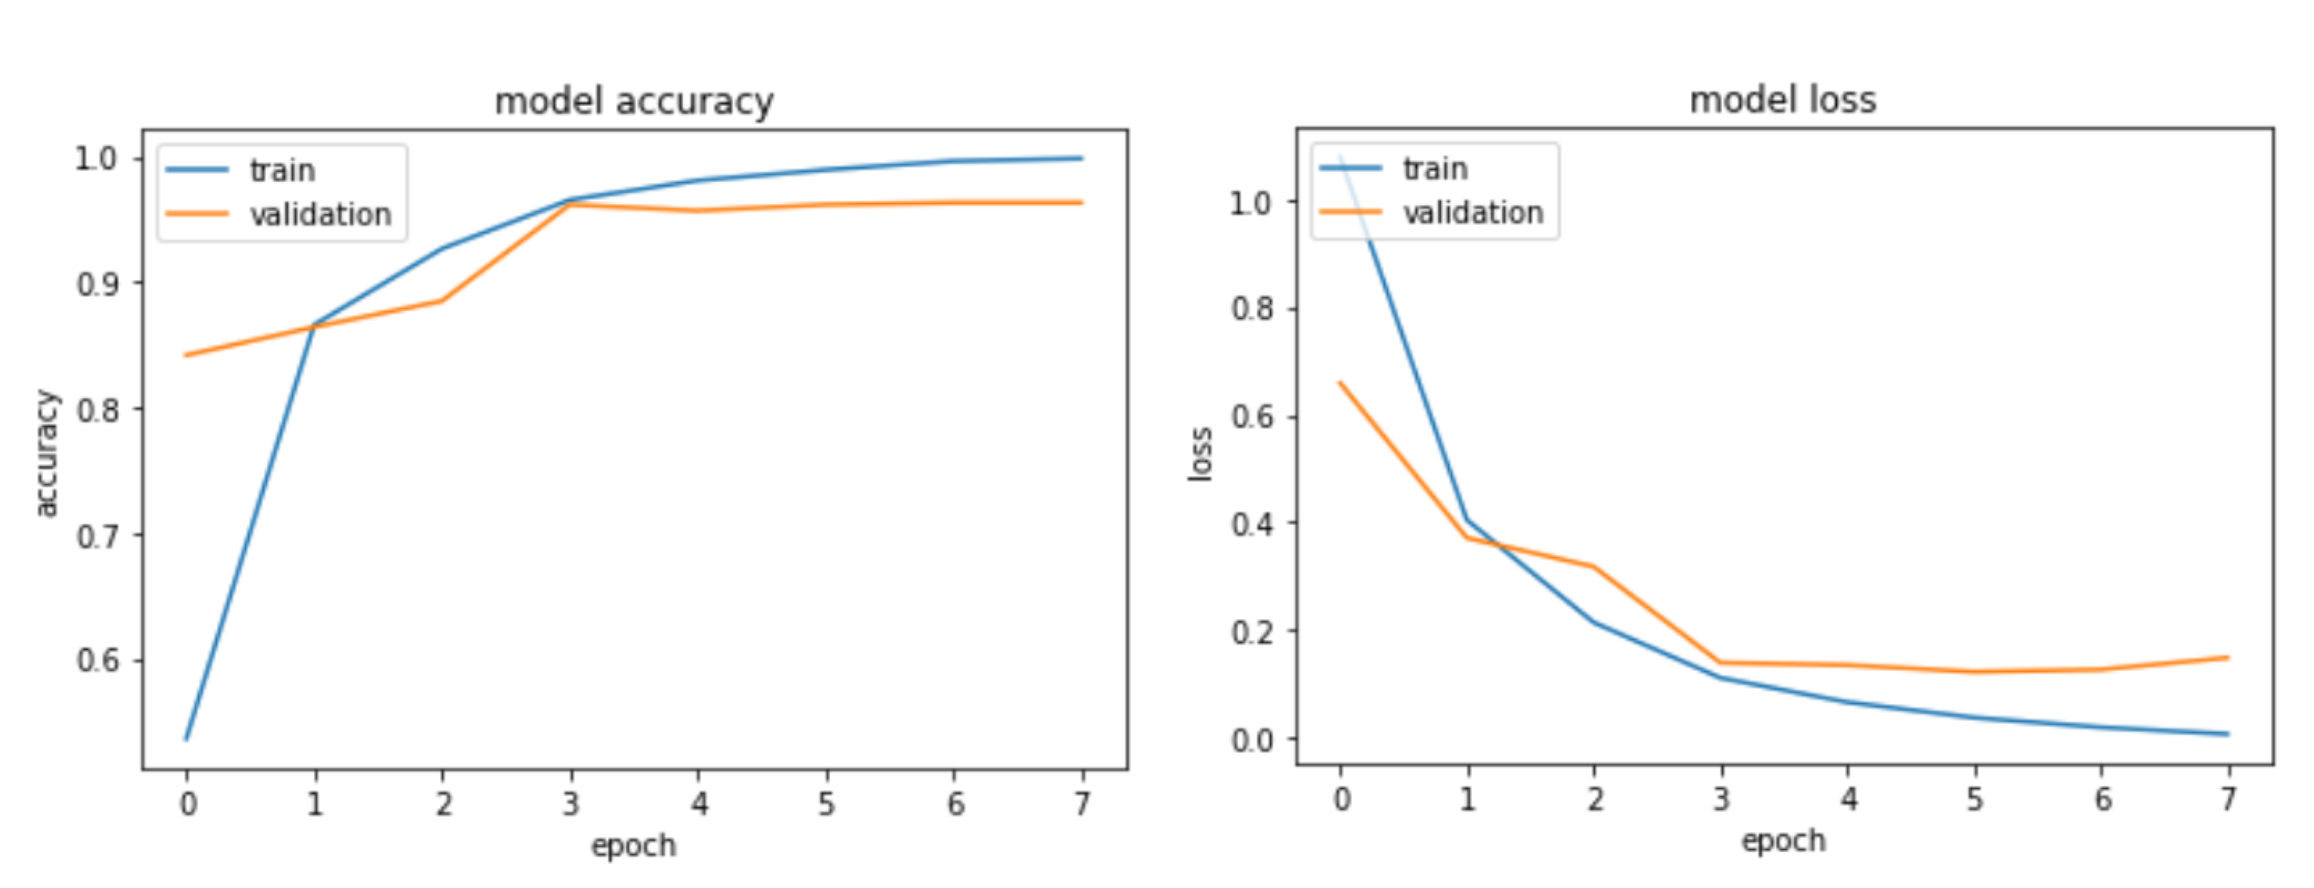
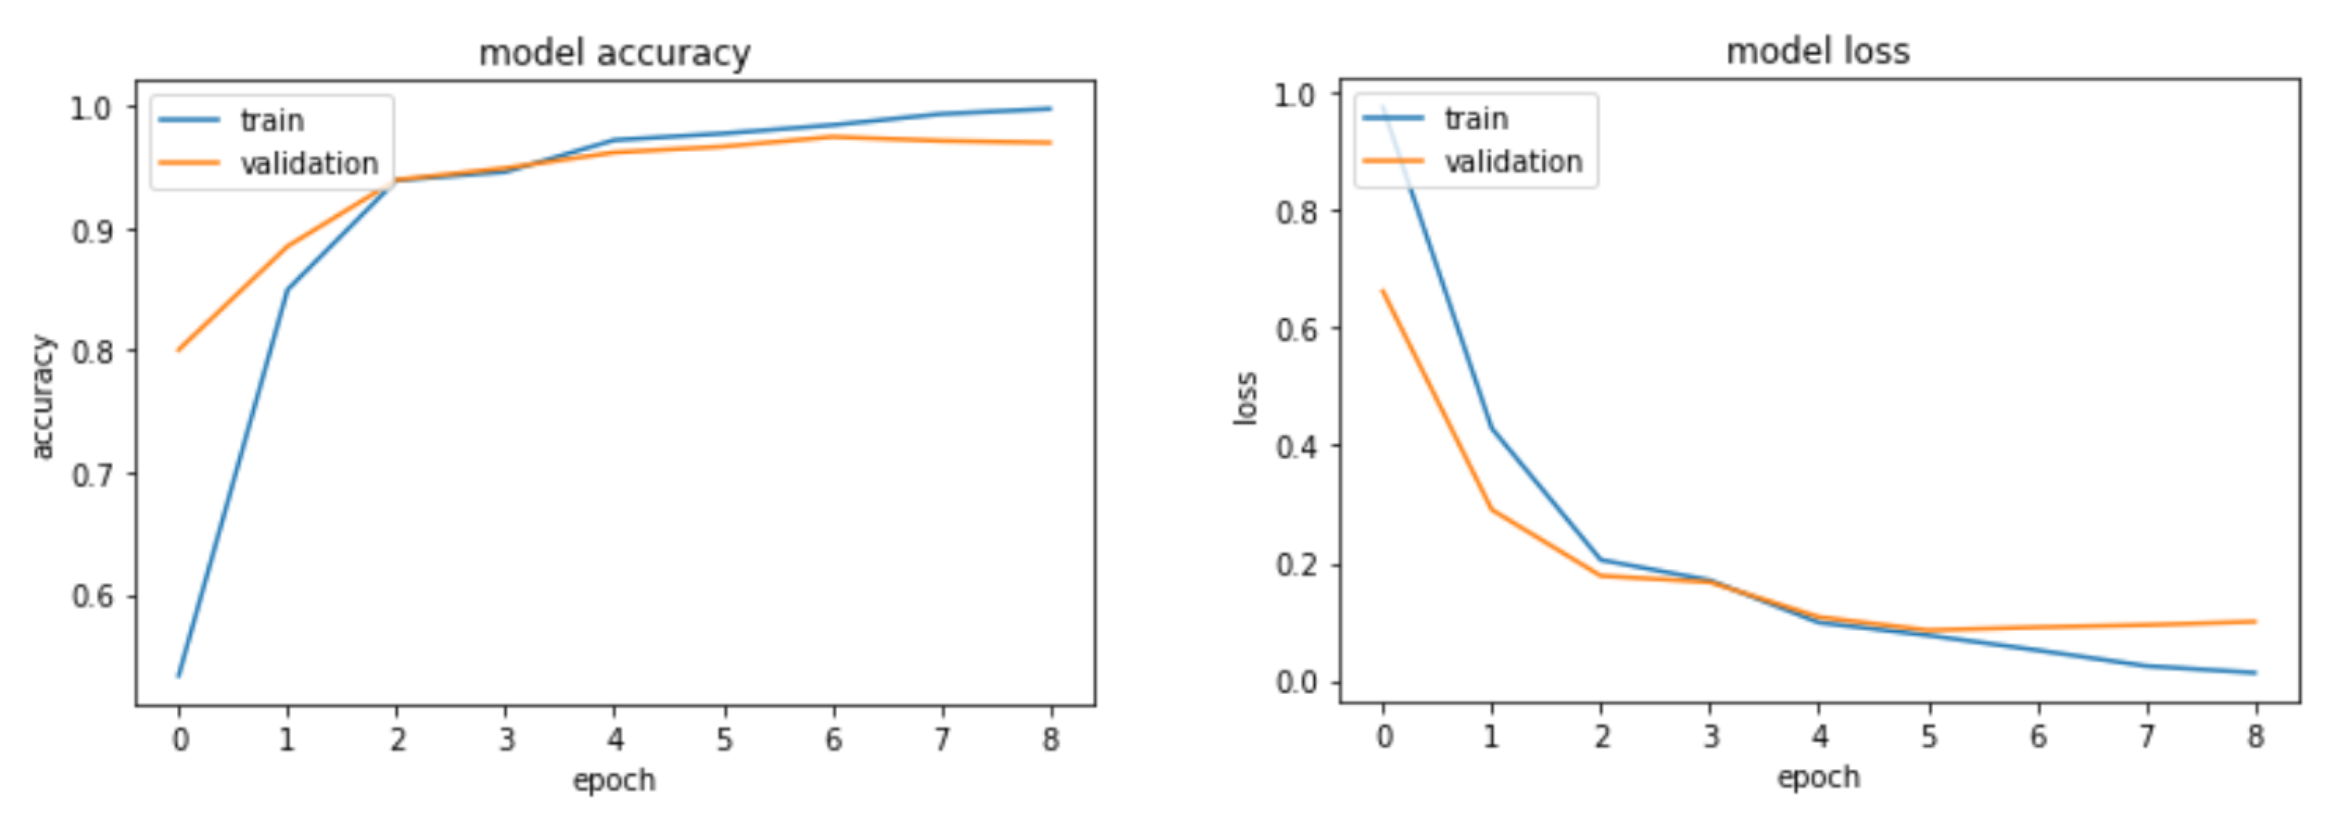
new result 1d cnn

Changed region(s): [[0.0, 0.031, 0.9957, 0.9905]]

diff --git a/README.md b/README.md
@@ -62,3 +62,15 @@ In directory _data_ you will find our small balanced dataset in _\_subjects_, bu
 To use StanforNERTagger you need to download [Stanford Named Entity Recognizer version 3.9.2](https://nlp.stanford.edu/software/stanford-ner-2018-10-16.zip) (instant download). For more information before download [Stanford](https://nlp.stanford.edu/software/CRF-NER.shtml). Place the directory in _main_.
 
 
+## Main notebooks
+
+### glove.ipynb (not included in the report)
+
+A **Text Classification** test on our big Subject corpus with **1D convolutional layer** with a pre trained word embedding, **GloVe**. The basic solution is from [keras.io](https://keras.io/examples/pretrained_word_embeddings/). 
+
+We changed the optimizer _rmsprop_ to _adam_ (imported, to be able to change parameters) and fiddled only with the learning rate, while keras recommends not to touch other defaults. Validation accuracy leveled out in epoch 6, just below 97% (an improvment only within 1% from _rmsprop_). We tried _Dropout_ and _Flatten_ without positive gains. And in the end it is not an improvment compared to our SVM TD-IDF solution.
+
+
+
+
+![Evaluation of 1D CNN with GloVe](main/images/evaluation_1d_cnn.png)
